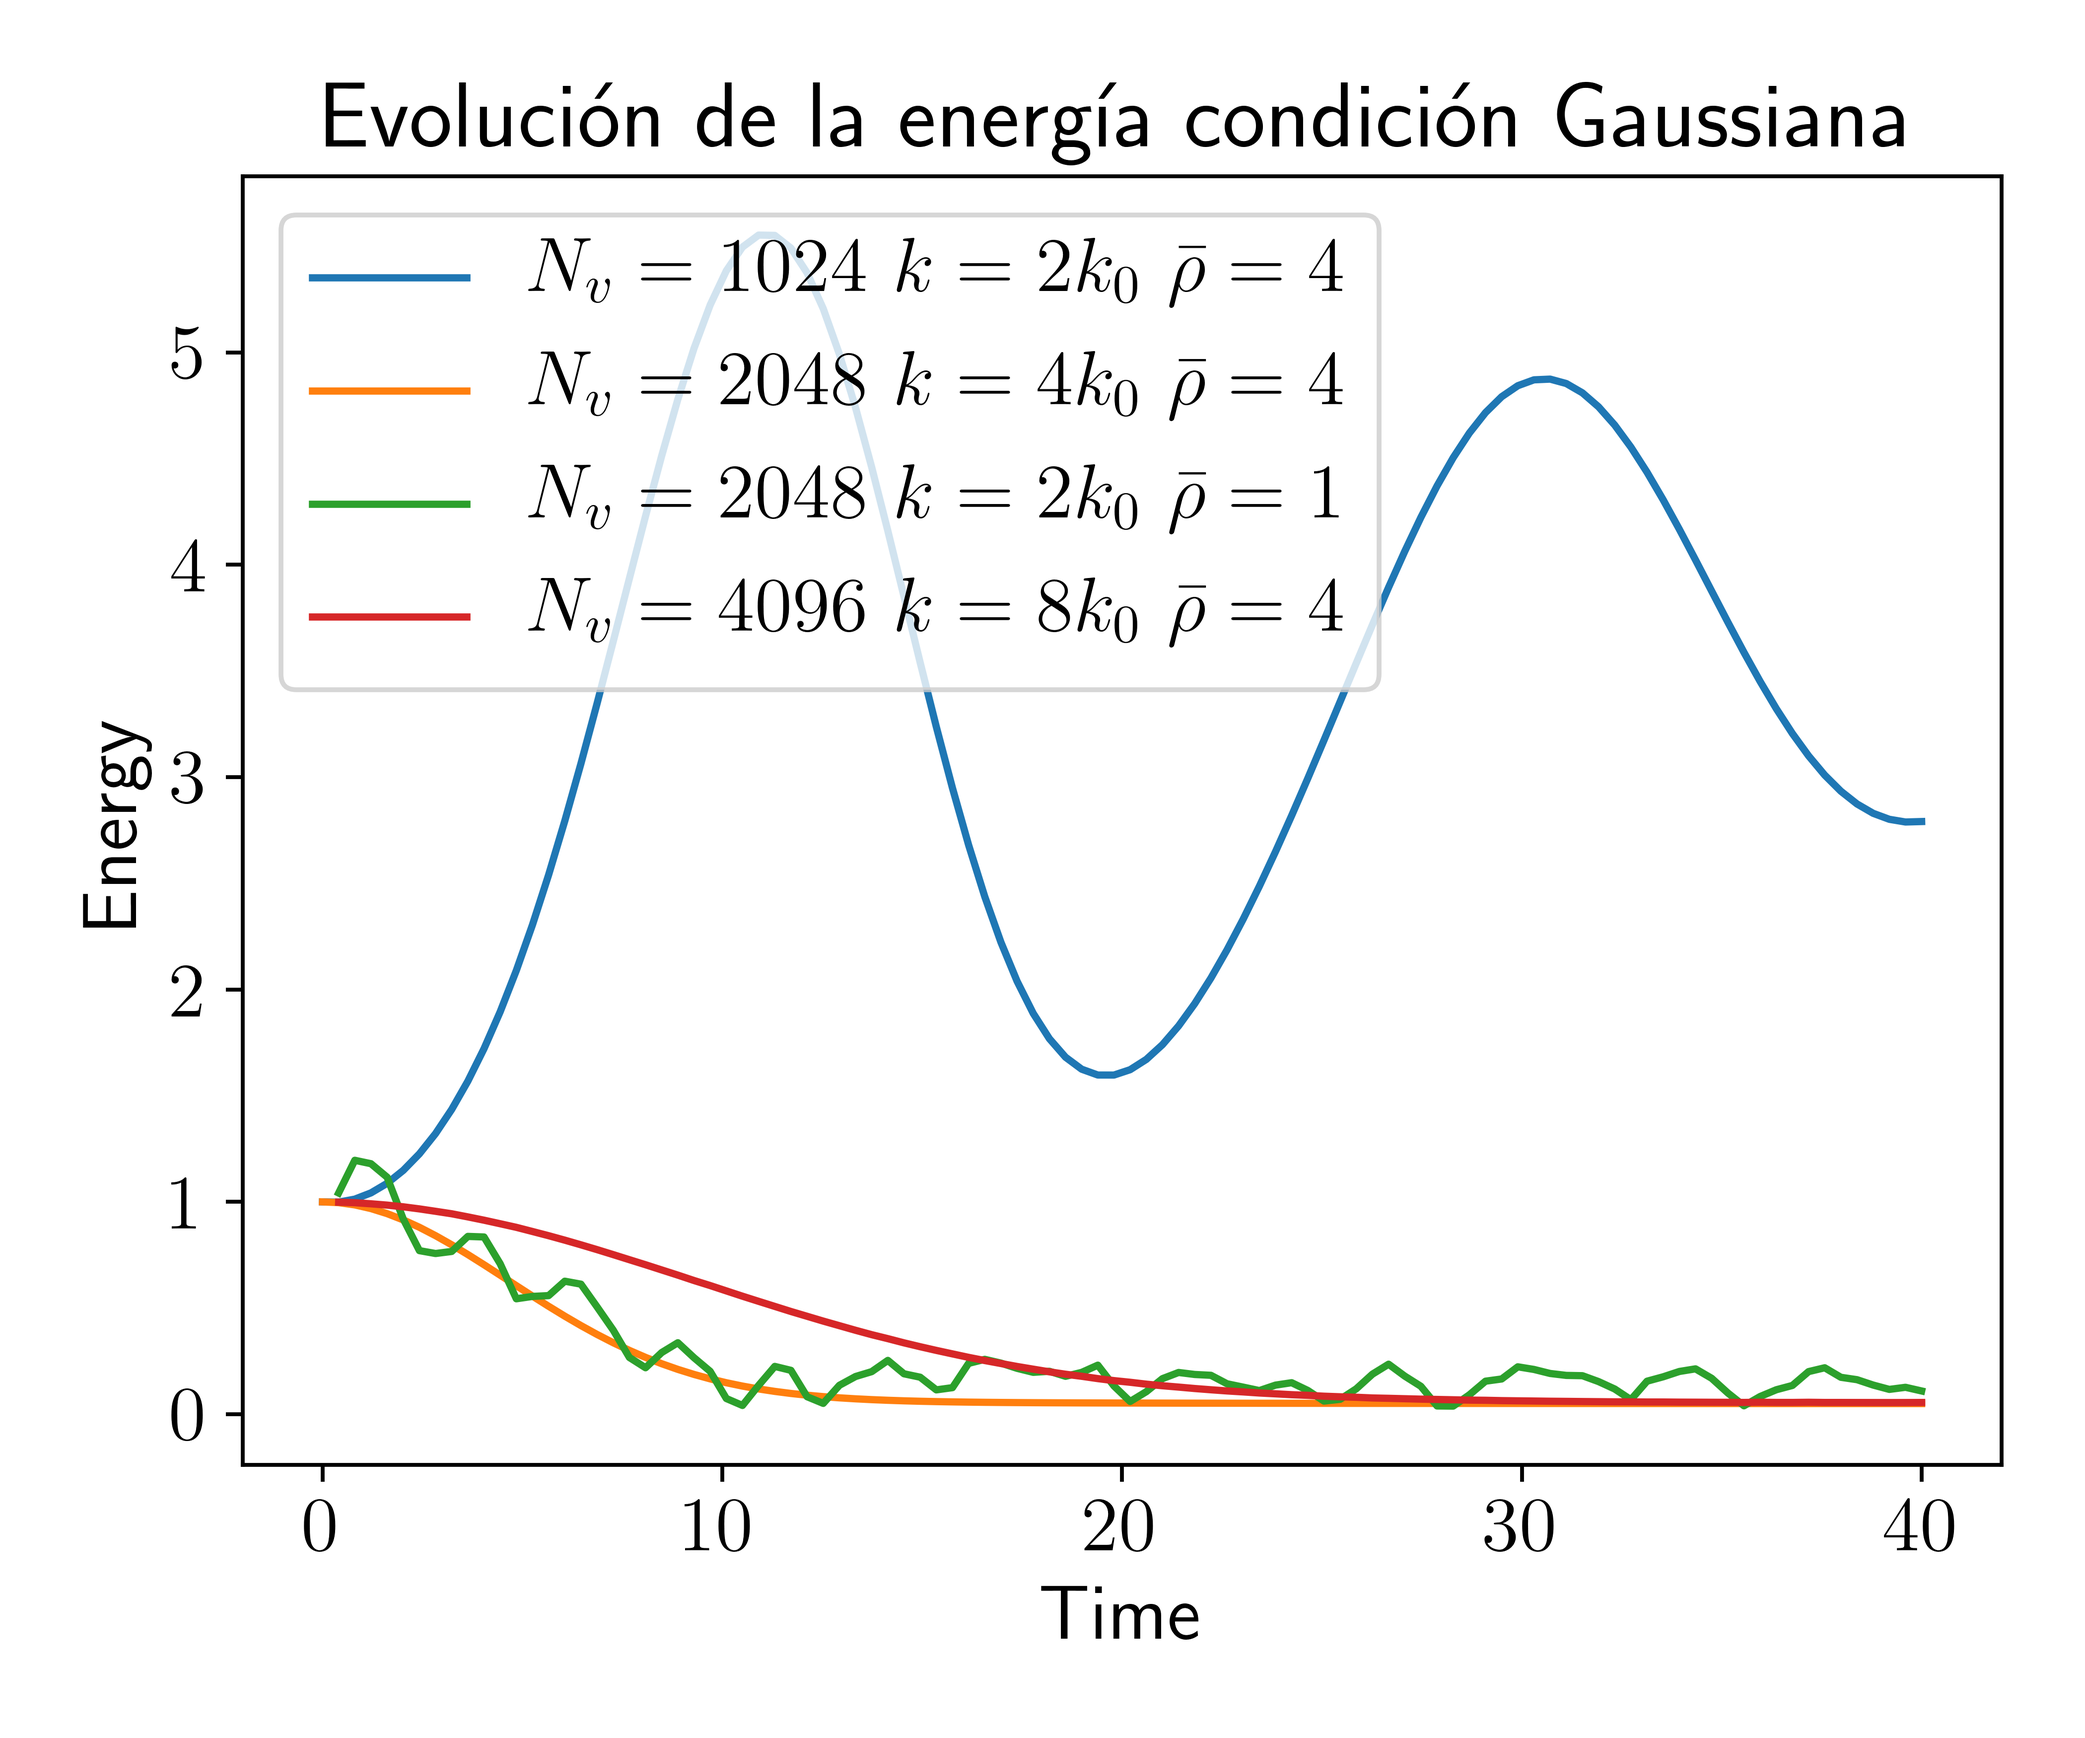
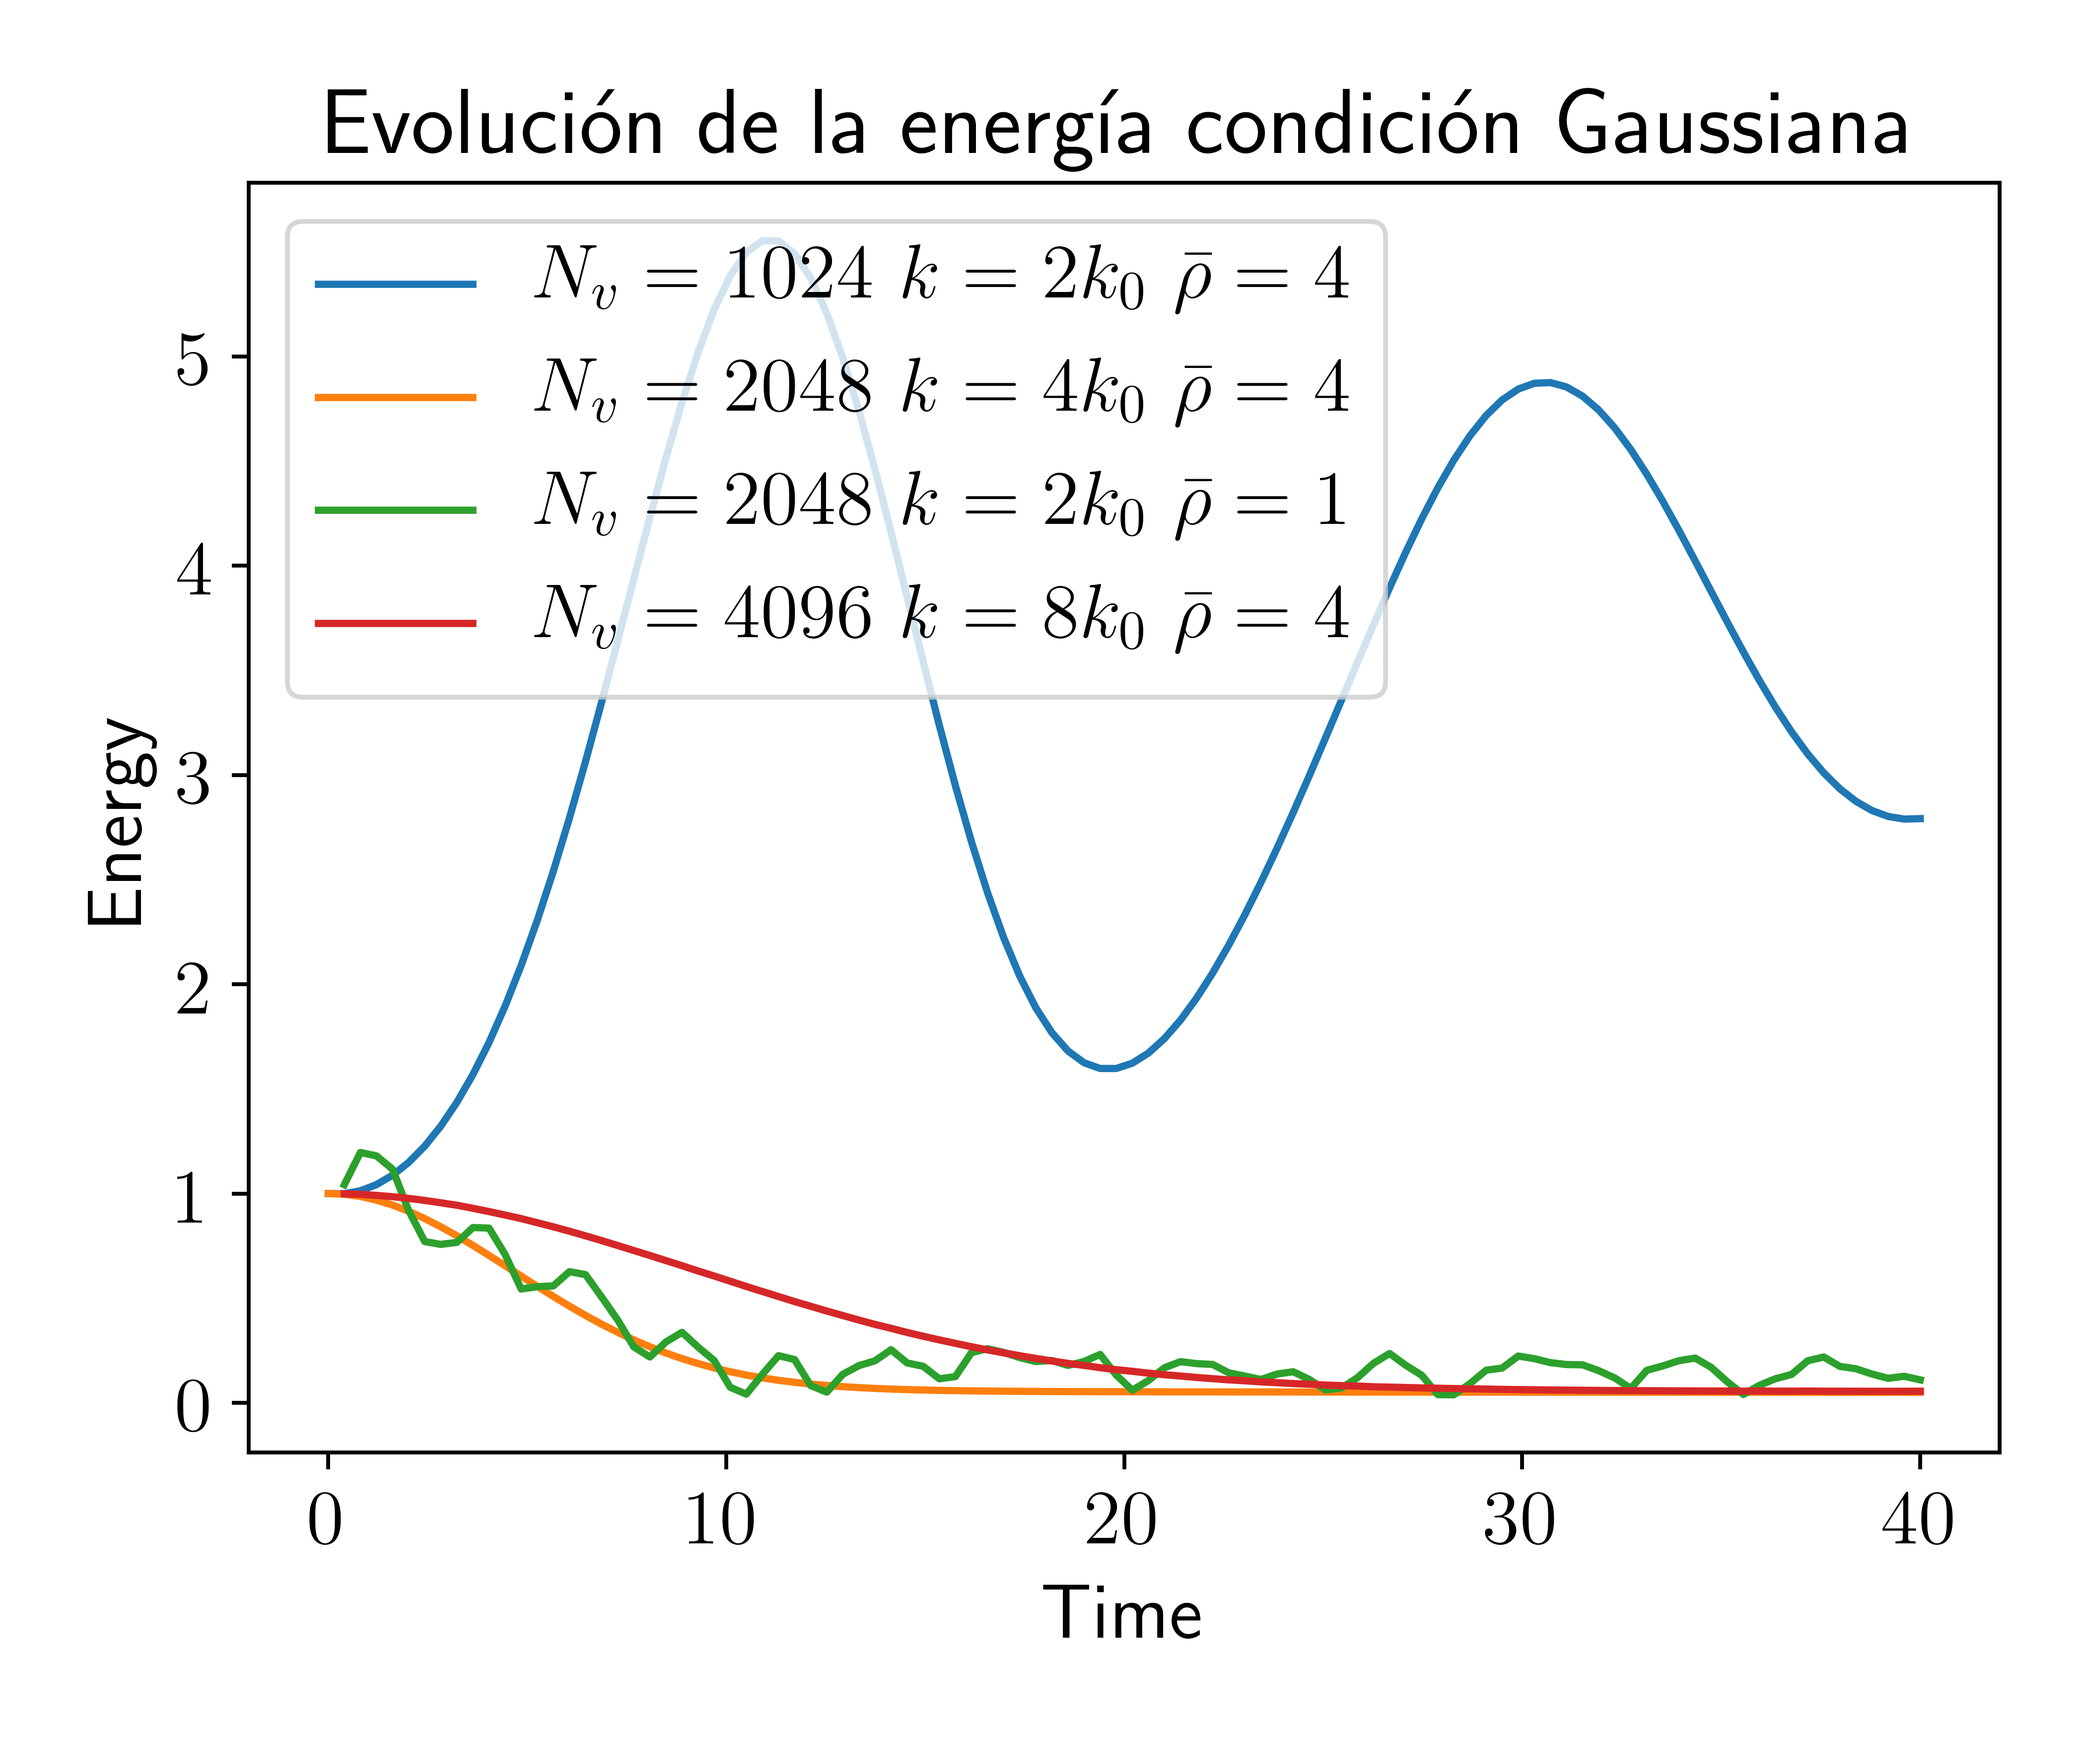
Enegry invariance tests

diff --git a/plots/plots.py b/plots/plots.py
@@ -64,13 +64,13 @@ figu = plt.gcf()
 
 
 
-condition = 'dimensional_invariance'
+condition = 'dimensional_invariance05'
 #condition = 'conservation'
 #condition = 'gauss'
 #condition = 'galilean_invariance'
 
 
-if(condition == 'dimensional_invariance' ):
+if(condition == 'dimensional_invariance11' ):
     f = plt.figure(figsize= (6,5))
     t = np.linspace(0, Nt*dt,Nt)
 #    mass = np.loadtxt(condition+'/massEvolution.dat')[:,0]
@@ -93,6 +93,30 @@ if(condition == 'dimensional_invariance' ):
     plt.title("Evolución de la energía condición Gaussiana")
     plt.savefig("sadGraph.png", dpi=dpII)    
     
+if(condition == 'dimensional_invariance05' ):
+    f = plt.figure(figsize= (6,5))
+    t = np.linspace(0, Nt*dt,Nt)
+#    mass = np.loadtxt(condition+'/massEvolution.dat')[:,0]
+    t1024_2_4= np.loadtxt(condition+'/1024-2-4.dat', delimiter=';')
+    t2048_4_4= np.loadtxt(condition+'/2048-4-4.dat', delimiter=';')
+    t2048_2_1= np.loadtxt(condition+'/2048-2-1.dat', delimiter=';')
+    t4096_8_4= np.loadtxt(condition+'/4096-8-4.dat', delimiter=';')
+    
+    for arr in [t1024_2_4,t2048_4_4,t2048_2_1,t4096_8_4]:
+        arr[0] = arr[0]/arr[0]
+    
+    plt.plot(t, t1024_2_4, label = r'$N_v = 1024$ $k = 2 k_0$ $\bar{\rho} =4$')
+    plt.plot(t, t2048_4_4, label = r'$N_v = 2048$ $k = 4 k_0$ $\bar{\rho} =4$')
+    plt.plot(t, t2048_2_1, label = r'$N_v = 2048$ $k = 2 k_0$ $\bar{\rho} =1$')
+    plt.plot(t, t4096_8_4, label = r'$N_v = 4096$ $k = 8 k_0$ $\bar{\rho} =4$')
+    
+    plt.legend()
+    plt.xlabel("Time")
+    plt.ylabel("Energy")
+    plt.title("Evolución de la energía condición Gaussiana")
+    plt.savefig("sadGraph.png", dpi=dpII)    
+    
+
 
 if(condition == 'conservation' ):
     f = plt.figure(figsize= (6,5))
